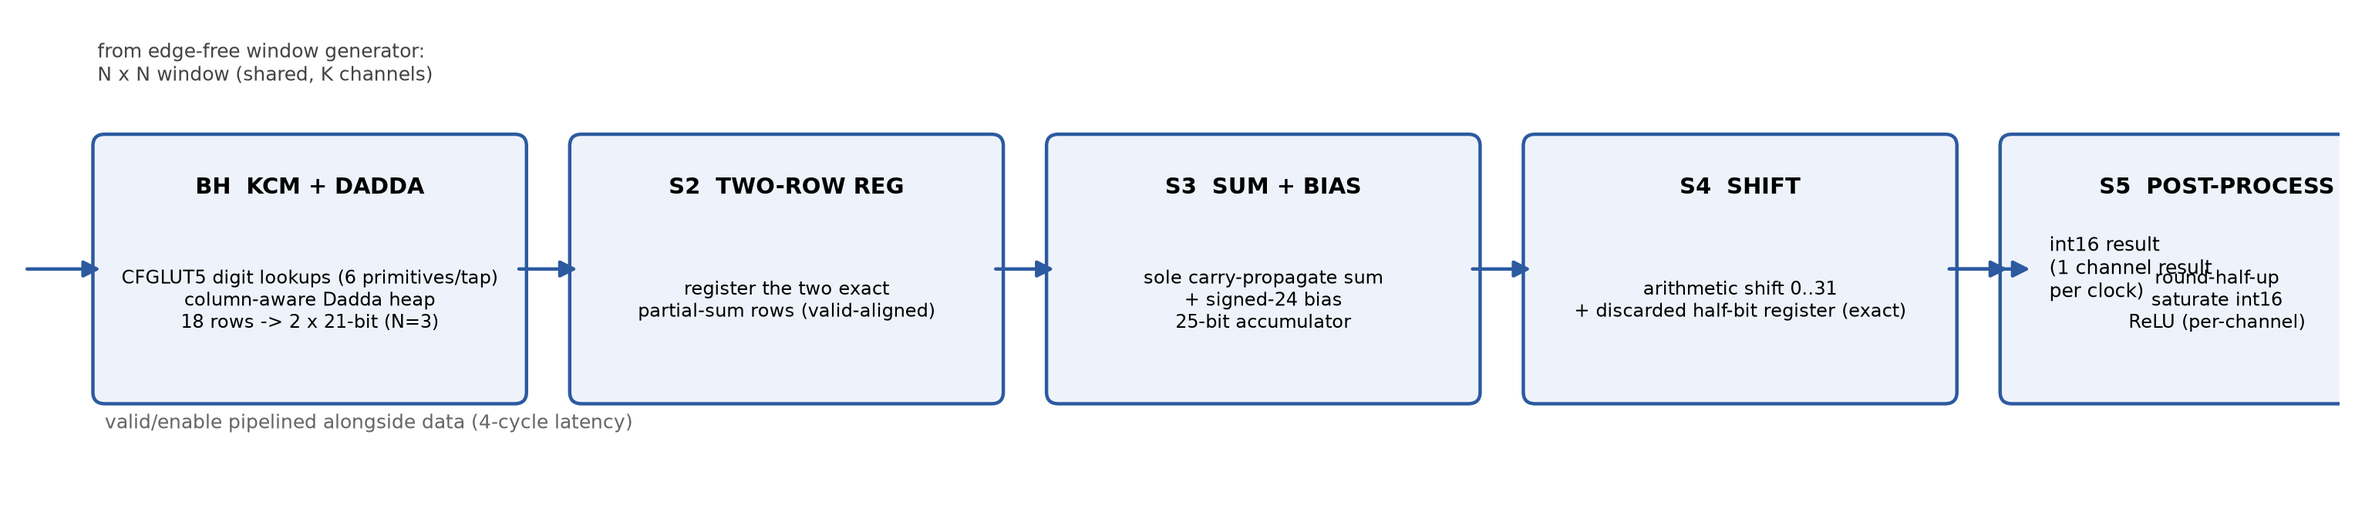
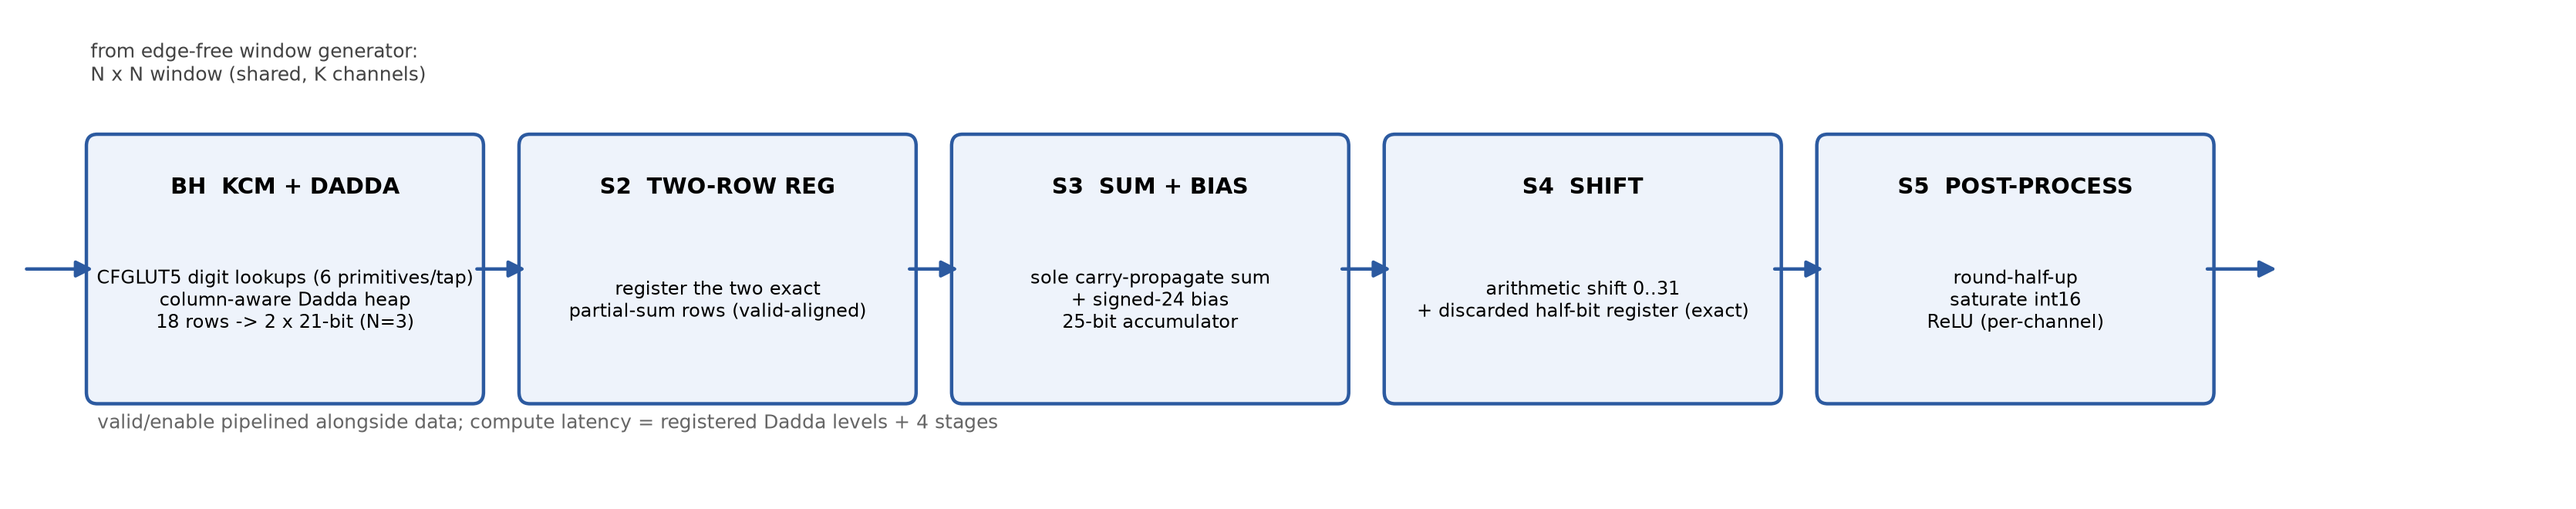
Packaging: CFGLUT5 pipeline figure final

diff --git a/report/figures/generate_figures.py b/report/figures/generate_figures.py
@@ -13,9 +13,9 @@ STAGES = [
     ("S5  POST-PROCESS", "round-half-up\nsaturate int16\nReLU (per-channel)"),
 ]
 
-fig, ax = plt.subplots(figsize=(15.5, 3.4), dpi=200)
+fig, ax = plt.subplots(figsize=(16.8, 3.4), dpi=200)
 ax.axis("off")
-bw, bh, gap = 2.75, 1.7, 0.45
+bw, bh, gap = 2.75, 1.7, 0.42
 x0, y0 = 0.4, 0.8
 ax.annotate("from edge-free window generator:\nN x N window (shared, K channels)", xy=(x0, y0 + bh / 2),
             xytext=(x0 - 0.05, y0 + bh + 0.45), fontsize=9, ha="left", color="#444444")
@@ -32,11 +32,10 @@ for i, (title, body) in enumerate(STAGES):
     else:
         ax.add_patch(FancyArrowPatch((x0 - 0.55, y0 + bh / 2), (x, y0 + bh / 2),
                                      arrowstyle="-|>", mutation_scale=16, color="#2c5aa0", lw=1.6))
-xe = x0 + 4 * (bw + gap)
+xe = x0 + len(STAGES) * (bw + gap)
 ax.add_patch(FancyArrowPatch((xe - gap, y0 + bh / 2), (xe + 0.15, y0 + bh / 2),
                              arrowstyle="-|>", mutation_scale=16, color="#2c5aa0", lw=1.6))
-ax.text(xe + 0.25, y0 + bh / 2, "int16 result\n(1 channel result\nper clock)", fontsize=9, va="center")
-ax.annotate("valid/enable pipelined alongside data (4-cycle latency)", xy=(x0, y0 - 0.25),
+ax.annotate("valid/enable pipelined alongside data; compute latency = registered Dadda levels + 4 stages", xy=(x0, y0 - 0.25),
             fontsize=9, color="#666666")
 ax.set_xlim(-0.2, xe + 2.2)
 ax.set_ylim(0.1, y0 + bh + 0.9)
